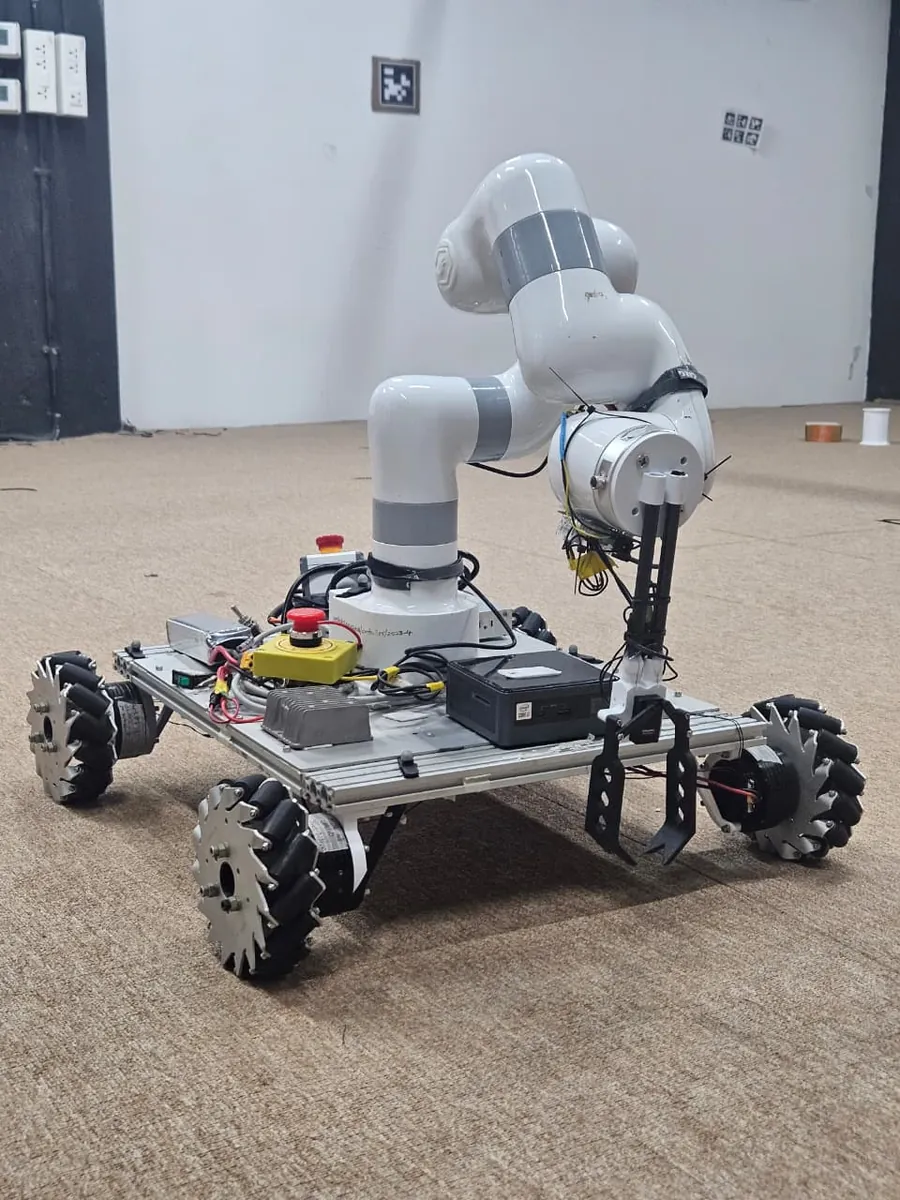
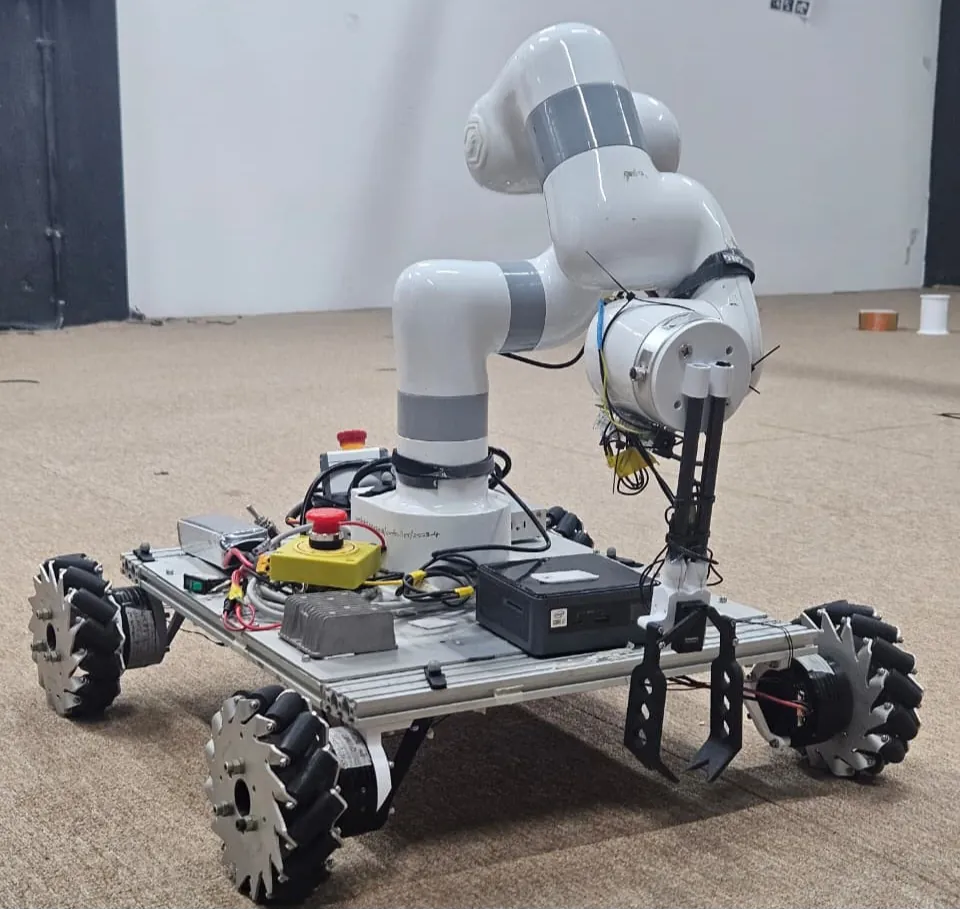
Swap five hero photos for the wider crops
exoskeleton-worn, fabrication, mobile-manipulator, aerial-manipulator
and icaart-talk-equations replaced in place, so the slideshow list needs
no change. All five go from tall phone crops to near-square or landscape
(0.56 to 1.11 for the exoskeleton, 0.56 to 1.78 for the talk slide),
which leaves far less blurred fill either side.

Claude-Session: https://claude.ai/code/session_014vBxw3rFEn1rtWVUShCqSB

diff --git a/index.html b/index.html
@@ -77,7 +77,7 @@
     };
   </script>
 
-  <link rel="stylesheet" href="assets/css/style.css?v=25" />
+  <link rel="stylesheet" href="assets/css/style.css?v=26" />
 </head>
 
 <body class="font-sans text-ink antialiased selection:bg-signal selection:text-cream">
@@ -372,18 +372,18 @@
   <!-- =========================================================
        SCRIPTS — content first, then the renderer, then behaviour
 
-       The ?v=25 on each file is a cache-buster. Browsers hang on to CSS and
+       The ?v=26 on each file is a cache-buster. Browsers hang on to CSS and
        JS, so after you edit anything in content/ or assets/, bump that
        number (v=3, v=4 ...) on EVERY line below and visitors get the new
        version straight away instead of whenever their cache expires.
        ========================================================= -->
-  <script src="content/site.js?v=25"></script>
-  <script src="content/sections.js?v=25"></script>
-  <script src="content/projects.js?v=25"></script>
-  <script src="assets/js/projects.js?v=25"></script>
-  <script src="assets/js/render.js?v=25"></script>
-  <script src="assets/js/ui.js?v=25"></script>
-  <script src="assets/js/cursor.js?v=25"></script>
+  <script src="content/site.js?v=26"></script>
+  <script src="content/sections.js?v=26"></script>
+  <script src="content/projects.js?v=26"></script>
+  <script src="assets/js/projects.js?v=26"></script>
+  <script src="assets/js/render.js?v=26"></script>
+  <script src="assets/js/ui.js?v=26"></script>
+  <script src="assets/js/cursor.js?v=26"></script>
   <script>
     document.addEventListener('DOMContentLoaded', function () {
       window.MSRender.renderAll();
